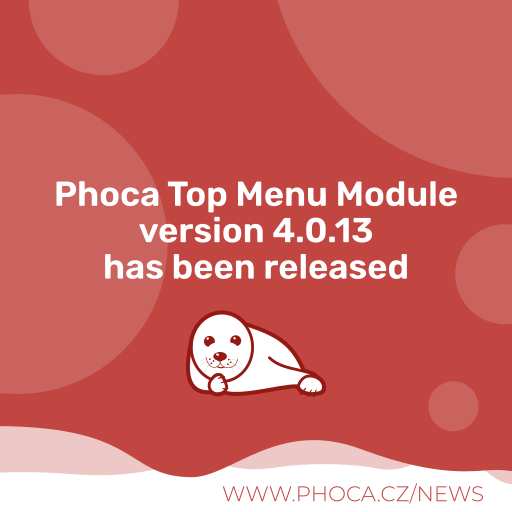
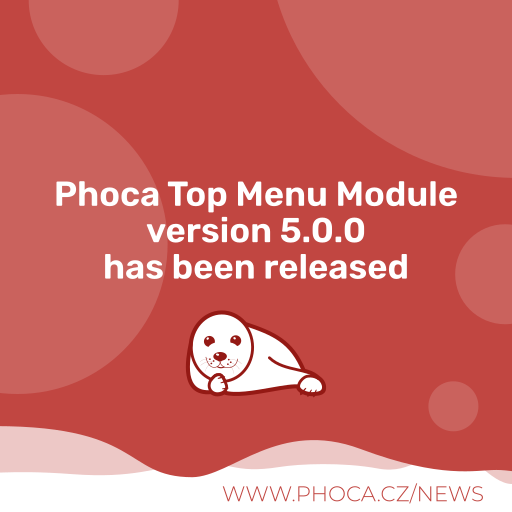
5.0.0

Changed region(s): [[0.25, 0.4062, 0.75, 0.5]]

diff --git a/media/css/main.css b/media/css/main.css
@@ -7,7 +7,7 @@
 	overflow: visible;
 }
 .ph-topmenu-sep{
-	
+
 	border-bottom: 1px solid #f0f0f0;
 }
 
@@ -22,8 +22,8 @@
 }
 
 
-#phtopmenu .item .menu-dashboard:hover, 
-#phtopmenu .item .menu-quicktask:hover, 
+#phtopmenu .item .menu-dashboard:hover,
+#phtopmenu .item .menu-quicktask:hover,
 #phtopmenu .item a:hover {
     background-color: var(--template-link-color);
     color: #fff;
@@ -88,13 +88,13 @@
 	display: inline-block;
 	margin-left: 0.255em;
 	vertical-align: 0.255em;
-	content: ""; 
+	content: "";
 }
-  
+
 #phtopmenu .dropstart .dropdown-toggle::before {
-	display: none; 
+	display: none;
 }
-  
+
 #phtopmenu .dropstart .dropdown-toggle::after {
 	display: inline-block;
 	margin-right: 0.255em;
@@ -102,7 +102,7 @@
 	content: "";
 	border-top: 0.3em solid transparent;
 	border-right: 0.3em solid;
-	border-bottom: 0.3em solid transparent; 
+	border-bottom: 0.3em solid transparent;
 }
 
 #phtopmenu a.nav-link.sub:before {
@@ -157,4 +157,18 @@
   .ph-topmenu-navbar {
     display: none;
   }
+}
+
+@media (prefers-color-scheme: dark) {
+  .ph-topmenu-black ul.dropdown-menu li a {
+	  color: #fff;
+	}
+
+	.ph-topmenu-dark ul.dropdown-menu li a {
+		color: #fff;
+	}
+
+	.ph-topmenu-default {
+		background: #000;
+	}
 }

diff --git a/mod_phocatopmenu.php b/mod_phocatopmenu.php
@@ -12,6 +12,7 @@ defined('_JEXEC') or die;
 use Joomla\CMS\Factory;
 use Joomla\CMS\Helper\ModuleHelper;
 use Joomla\CMS\HTML\HTMLHelper;
+use Joomla\CMS\Uri\Uri;
 use Joomla\Module\Phocatopmenu\Administrator\Phocatopmenu\CssPhocatopmenu;
 
 $app		= Factory::getApplication();
@@ -25,17 +26,14 @@ $theme_style 		= $params->get('theme_style', 'black');
 $custom_css 		= $params->get('custom_css', '');
 $sticky_navbar 		= $params->get('sticky_navbar', 0);
 
-
-
 HTMLHelper::_('behavior.core');
 //HTMLHelper::_('jquery.framework');
-
-$doc->addStyleSheet(JURI::root(true) . '/media/mod_phocatopmenu/css/main.css');
+$doc->addStyleSheet(Uri::root(true) . '/media/mod_phocatopmenu/css/main.css');
 if ($open_menu == 2) {
-	$doc->addStyleSheet(JURI::root(true) . '/media/mod_phocatopmenu/css/main-hover.css');
+	$doc->addStyleSheet(Uri::root(true) . '/media/mod_phocatopmenu/css/main-hover.css');
 }
-$doc->addStyleSheet(JURI::root(true) . '/media/mod_phocatopmenu/css/theme.css');
-//$doc->addScript(JURI::root(true) . '/media/mod_phocatopmenu/js/main.js');
+$doc->addStyleSheet(Uri::root(true) . '/media/mod_phocatopmenu/css/theme.css');
+//$doc->addScript(Uri::root(true) . '/media/mod_phocatopmenu/js/main.js');
 
 $cssOutput = '';
 if ($sticky_navbar == 1) {

diff --git a/tmpl/default.php b/tmpl/default.php
@@ -24,7 +24,7 @@ $class     = $enabled ? 'nav flex-column main-nav ' . $direction : 'nav flex-col
 if ($root->hasChildren()) {
 
 	echo '<nav class="navbar navbar-expand-md navbar-inverse ph-topmenu-navbar ph-topmenu-'.$theme_style.'">';
-	echo '<button class="navbar-toggler" type="button" data-toggle="collapse" data-target="#phtopmenu" aria-controls="topmenu" aria-expanded="false" aria-label="'.JText::_('MOD_PHOCATOPMENU_TOGGLE_NAVIGATION').'">';
+	echo '<button class="navbar-toggler" type="button" data-toggle="collapse" data-target="#phtopmenu" aria-controls="topmenu" aria-expanded="false" aria-label="'.Text::_('MOD_PHOCATOPMENU_TOGGLE_NAVIGATION').'">';
 	echo '<span class="fas fa-bars"></span>';
 	echo '</button>';
 	echo '<div class="collapse navbar-collapse" id="phtopmenu">';

diff --git a/README.MD b/README.MD
@@ -50,7 +50,11 @@ Phoca Top Menu Module - a Joomla! CMS module which displays horizontal top menu 
 
 ## Version (Joomla! 4.x)
 
-4.0.13
+4.0.14
+
+## Version (Joomla! 5.x)
+
+5.0.0
 
 
 
@@ -61,3 +65,17 @@ GNU/GPL
 
 
 This project is open source project - feel free to contribute! Thank you.
+
+
+
+## Social Media
+
+- [Phoca on Facebook](https://www.facebook.com/Phoca.cz)
+
+- [Phoca on X (Twitter)](https://twitter.com/PhocaCz)
+
+- [Phoca on YouTube](https://www.youtube.com/user/phocavideos)
+
+- [Phoca on GitHub](https://github.com/PhocaCz)
+
+- [Phoca on Reddit](https://www.reddit.com/user/PhocaCz)
